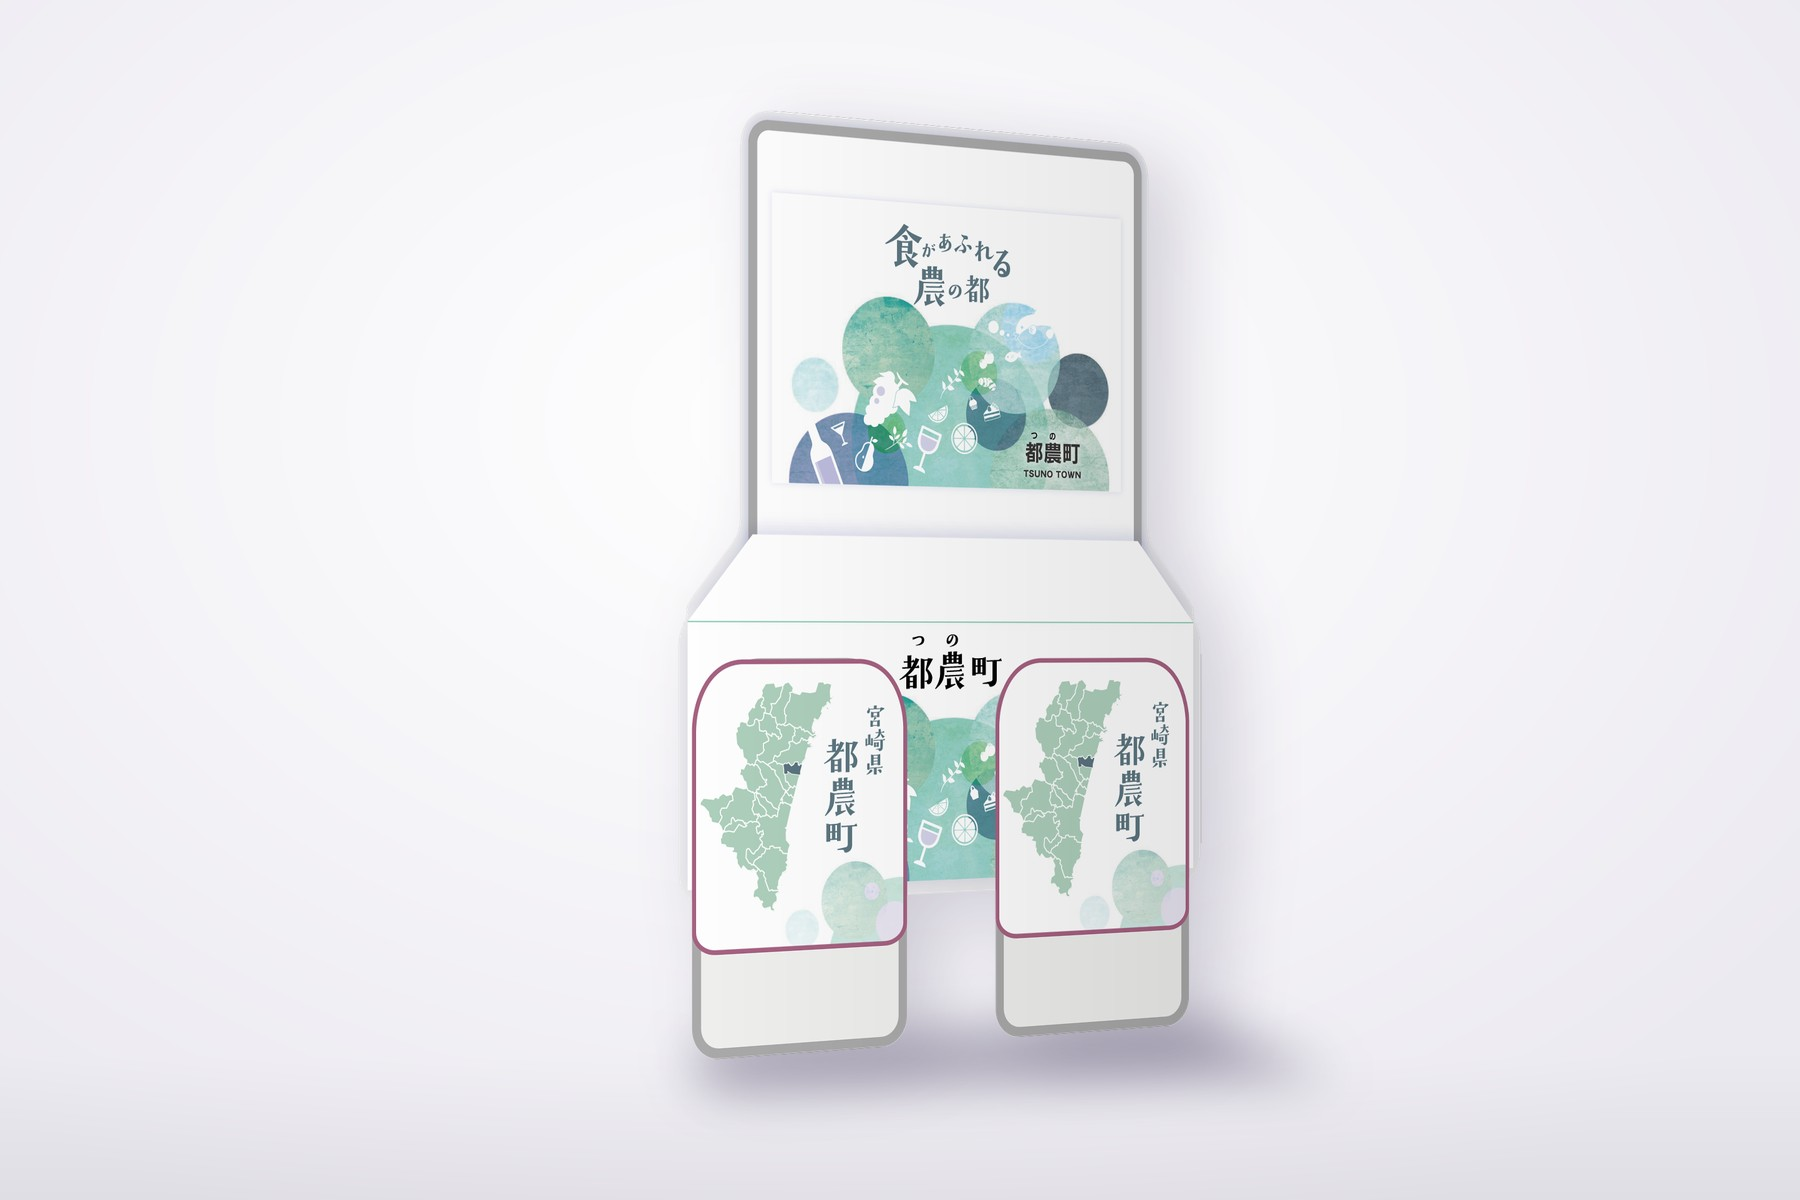
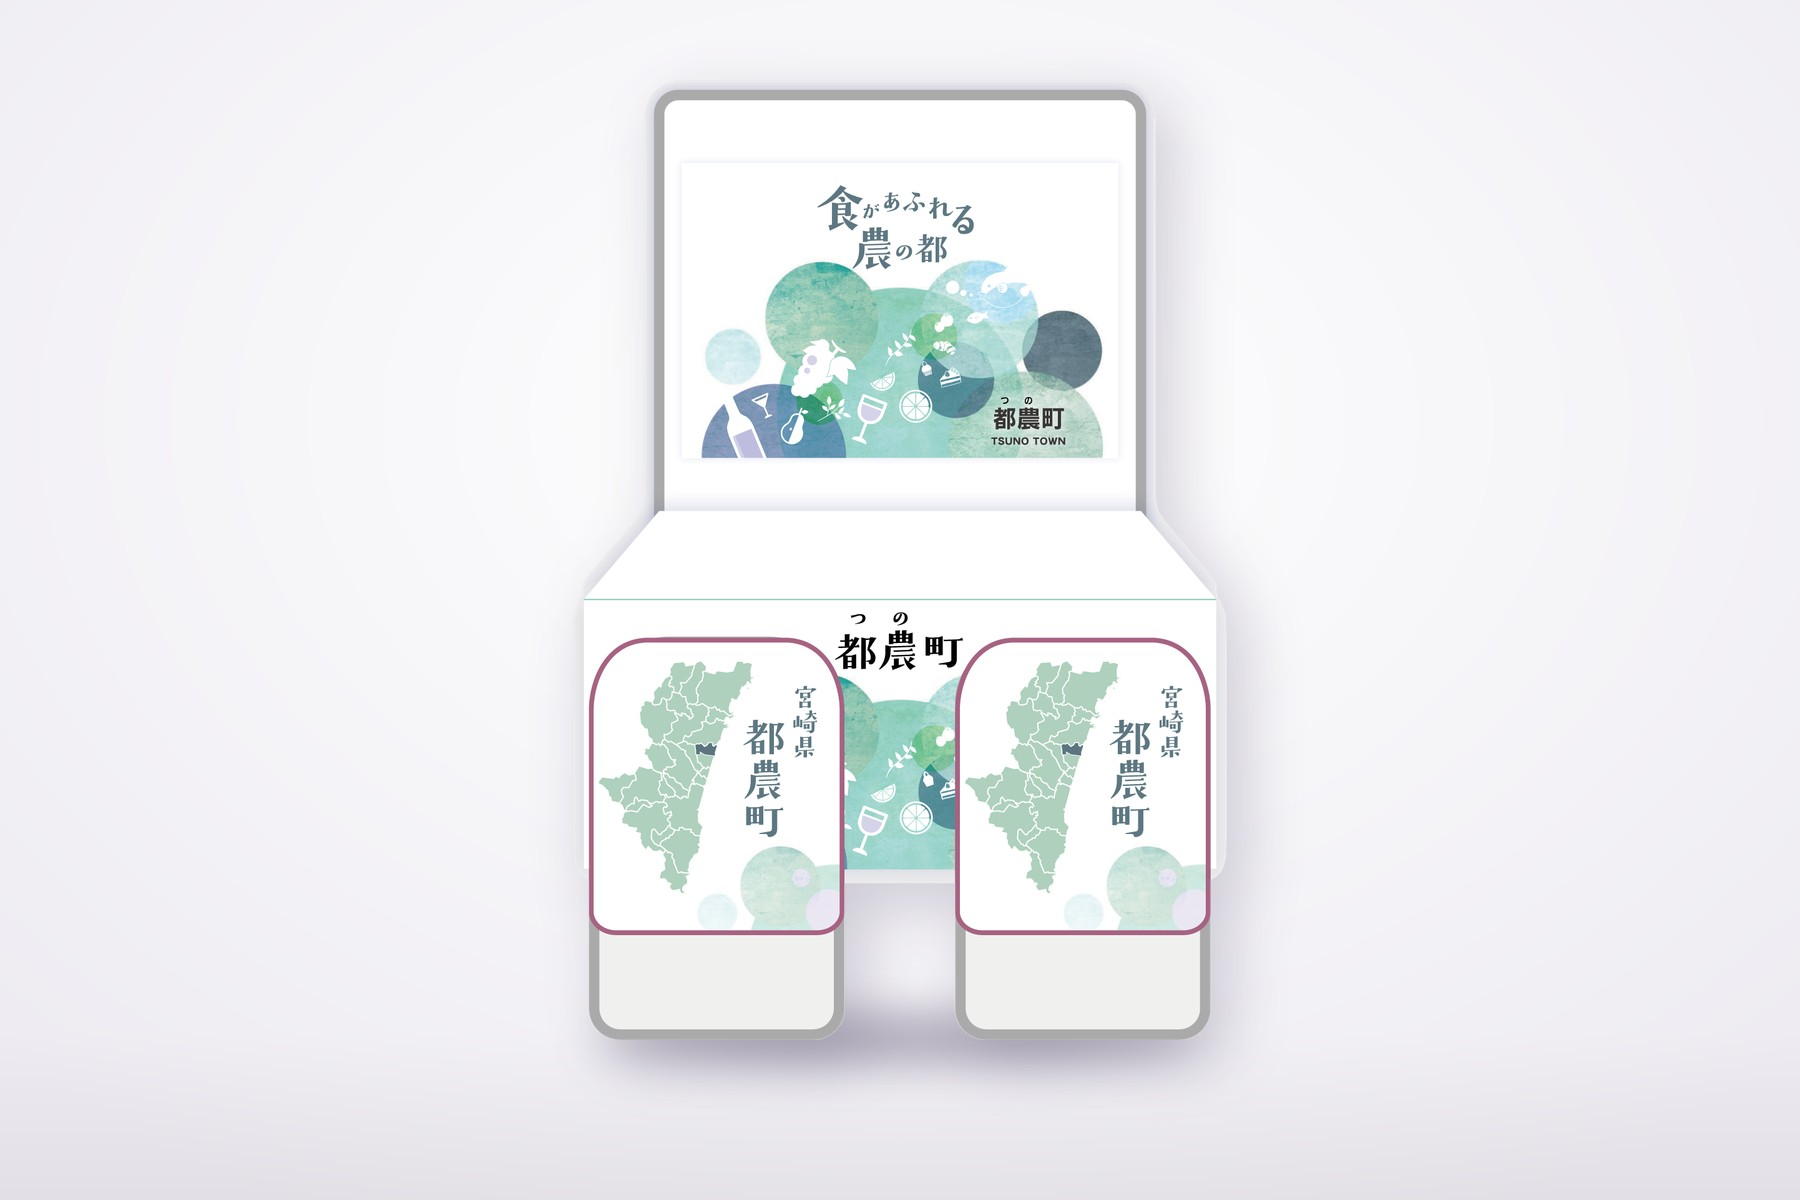
Detail pages: center tall images, remove large cuts; booth design 3 front view; flyers renamed; memo pad added
Claude-Session: https://claude.ai/code/session_01Jjns76fGtdYVDy7ATvCzK4

Changed region(s): [[0.3111, 0.0617, 0.7156, 0.925]]

diff --git a/work-03.html b/work-03.html
@@ -55,7 +55,7 @@
       <header class="sec-head detail-head">
         <p class="sec-head__label" data-reveal><a class="back" href="index.html#work-03">← Back</a>(PROJECT No.03) <span>2026</span></p>
         <h1 class="sec-head__title" data-reveal>Print<br>&amp; Booth</h1>
-        <p class="sec-head__count" data-reveal><b>07</b><span>ITEMS /<br>No.03</span></p>
+        <p class="sec-head__count" data-reveal><b>08</b><span>ITEMS /<br>No.03</span></p>
         <p class="sec-head__v" aria-hidden="true">さくひん</p>
       </header>
 
@@ -64,13 +64,14 @@
         <div class="detail-toc-wrap" data-reveal>
           <p class="detail-toc-label">(CONTENTS)</p>
           <ul class="detail-toc">
-            <li><a href="#piece-1"><span>01</span>Poster 01</a></li>
-            <li><a href="#piece-2"><span>02</span>Poster 02</a></li>
-            <li><a href="#piece-3"><span>03</span>Poster 03</a></li>
-            <li><a href="#piece-4"><span>04</span>Poster 04</a></li>
+            <li><a href="#piece-1"><span>01</span>Flyer 01</a></li>
+            <li><a href="#piece-2"><span>02</span>Poster 01</a></li>
+            <li><a href="#piece-3"><span>03</span>Flyer 02</a></li>
+            <li><a href="#piece-4"><span>04</span>Poster 02</a></li>
             <li><a href="#piece-5"><span>05</span>Pamphlet</a></li>
             <li><a href="#piece-6"><span>06</span>Booth Design</a></li>
             <li><a href="#piece-7"><span>07</span>Logo</a></li>
+            <li><a href="#piece-8"><span>08</span>Memo Pad</a></li>
           </ul>
         </div>
       </div>
@@ -80,41 +81,41 @@
         <article class="site" id="piece-1">
           <figure class="piece__fig site__fig" data-reveal>
             <div class="detail__frame site__frame" data-label="IMAGE 01">
-              <img class="site__shot" src="images/works/detail/03-print-1-kamenoi.jpg" alt="ポスター「亀の井ホテル 玄界灘」" loading="lazy" data-detail-img>
+              <img class="site__shot" src="images/works/detail/03-print-1-kamenoi.jpg" alt="チラシ「亀の井ホテル 玄界灘」" loading="lazy" data-detail-img>
             </div>
-            <figcaption class="detail__cap">(01) Poster 01</figcaption>
+            <figcaption class="detail__cap">(01) Flyer 01</figcaption>
           </figure>
-          <h2 class="piece__title visually-hidden">Poster 01</h2>
-          <p class="piece__jp visually-hidden">ポスター「亀の井ホテル 玄界灘」</p>
+          <h2 class="piece__title visually-hidden">Flyer 01</h2>
+          <p class="piece__jp visually-hidden">チラシ「亀の井ホテル 玄界灘」</p>
         </article>
         <article class="site" id="piece-2">
           <figure class="piece__fig site__fig" data-reveal>
             <div class="detail__frame site__frame" data-label="IMAGE 02">
               <img class="site__shot" src="images/works/detail/03-print-2-school.jpg" alt="ポスター「宮崎で、ミライが動き出す。」" loading="lazy" data-detail-img>
             </div>
-            <figcaption class="detail__cap">(02) Poster 02</figcaption>
+            <figcaption class="detail__cap">(02) Poster 01</figcaption>
           </figure>
-          <h2 class="piece__title visually-hidden">Poster 02</h2>
+          <h2 class="piece__title visually-hidden">Poster 01</h2>
           <p class="piece__jp visually-hidden">ポスター「宮崎で、ミライが動き出す。」</p>
         </article>
         <article class="site" id="piece-3">
           <figure class="piece__fig site__fig" data-reveal>
             <div class="detail__frame site__frame" data-label="IMAGE 03">
-              <img class="site__shot" src="images/works/detail/03-print-3-photocon.jpg" alt="ポスター「フォトコン 一ツ葉」" loading="lazy" data-detail-img>
+              <img class="site__shot" src="images/works/detail/03-print-3-photocon.jpg" alt="チラシ「フォトコン 一ツ葉」" loading="lazy" data-detail-img>
             </div>
-            <figcaption class="detail__cap">(03) Poster 03</figcaption>
+            <figcaption class="detail__cap">(03) Flyer 02</figcaption>
           </figure>
-          <h2 class="piece__title visually-hidden">Poster 03</h2>
-          <p class="piece__jp visually-hidden">ポスター「フォトコン 一ツ葉」</p>
+          <h2 class="piece__title visually-hidden">Flyer 02</h2>
+          <p class="piece__jp visually-hidden">チラシ「フォトコン 一ツ葉」</p>
         </article>
         <article class="site" id="piece-4">
           <figure class="piece__fig site__fig" data-reveal>
             <div class="detail__frame site__frame" data-label="IMAGE 04">
               <img class="site__shot" src="images/works/detail/03-print-4-torujunrei.jpg" alt="ポスター「撮る巡礼」" loading="lazy" data-detail-img>
             </div>
-            <figcaption class="detail__cap">(04) Poster 04</figcaption>
+            <figcaption class="detail__cap">(04) Poster 02</figcaption>
           </figure>
-          <h2 class="piece__title visually-hidden">Poster 04</h2>
+          <h2 class="piece__title visually-hidden">Poster 02</h2>
           <p class="piece__jp visually-hidden">ポスター「撮る巡礼」</p>
         </article>
         <article class="site" id="piece-5">
@@ -147,16 +148,18 @@
           <h2 class="piece__title visually-hidden">Logo</h2>
           <p class="piece__jp visually-hidden">会社の周年ロゴ(2種類)</p>
         </article>
+        <article class="site" id="piece-8">
+          <figure class="piece__fig site__fig" data-reveal>
+            <div class="detail__frame site__frame site__frame--full" data-label="IMAGE 08">
+              <img class="site__shot" src="images/works/detail/03-print-8-memo.jpg" alt="メモ帳デザイン" loading="lazy" data-detail-img>
+            </div>
+            <figcaption class="detail__cap">(08) Memo Pad</figcaption>
+          </figure>
+          <h2 class="piece__title visually-hidden">Memo Pad</h2>
+          <p class="piece__jp visually-hidden">メモ帳デザイン</p>
+        </article>
       </div>
 
-      <!-- 大きく見せるカット -->
-      <div class="mocks">
-        <figure class="piece__fig mock" data-reveal>
-          <div class="detail__frame mock__frame" data-label="PRINTS">
-            <img class="mock__media" src="images/works/detail/03-print-booth-1-print.jpg" alt="印刷物のまとめ" loading="lazy" data-detail-img>
-          </div>
-        </figure>
-      </div>
 
       <!-- ほかの作品へ -->
       <nav class="detail-pager" aria-label="ほかの作品" data-reveal>

diff --git a/work-05.html b/work-05.html
@@ -118,19 +118,6 @@
         </article>
       </div>
 
-      <!-- 大きく見せるカット(同じ大きさで縦に並べる)。押すと、上の一覧の同じ作品が大きく表示される -->
-      <div class="mocks">
-        <figure class="piece__fig mock" data-reveal>
-          <div class="detail__frame mock__frame" data-alias="piece-3" data-label="IMAGE 03">
-            <img class="mock__media" src="images/works/detail/05-3d-objects-3-glass.jpg" alt="光の反射の実験 ガラスオブジェクト" loading="lazy" data-detail-img>
-          </div>
-        </figure>
-        <figure class="piece__fig mock" data-reveal>
-          <div class="detail__frame mock__frame" data-alias="piece-4" data-label="IMAGE 04">
-            <video class="mock__media" src="videos/05-3d-objects-4-jelly.mp4" poster="images/works/detail/05-3d-objects-4-jelly-poster.jpg" autoplay muted loop playsinline preload="metadata" aria-label="ゼリー(アニメーション)"></video>
-          </div>
-        </figure>
-      </div>
 
       <!-- ほかの作品へ -->
       <nav class="detail-pager" aria-label="ほかの作品" data-reveal>

diff --git a/work-08.html b/work-08.html
@@ -97,19 +97,6 @@
         </article>
       </div>
 
-      <!-- 大きく見せるカット(同じ大きさで縦に並べる)。押すと、上の一覧の同じ作品が大きく表示される -->
-      <div class="mocks">
-        <figure class="piece__fig mock" data-reveal>
-          <div class="detail__frame mock__frame" data-alias="piece-3" data-label="IMAGE 03">
-            <img class="mock__media" src="images/works/detail/08-illustration-3-space.jpg" alt="イラスト" loading="lazy" data-detail-img>
-          </div>
-        </figure>
-        <figure class="piece__fig mock" data-reveal>
-          <div class="detail__frame mock__frame" data-alias="piece-4" data-label="IMAGE 04">
-            <img class="mock__media" src="images/works/detail/08-illustration-4-garland.jpg" alt="イラスト" loading="lazy" data-detail-img>
-          </div>
-        </figure>
-      </div>
 
       <!-- ほかの作品へ -->
       <nav class="detail-pager" aria-label="ほかの作品" data-reveal>

diff --git a/work-09.html b/work-09.html
@@ -149,19 +149,6 @@
         </article>
       </div>
 
-      <!-- 大きく見せるカット(同じ大きさで縦に並べる)。押すと、上の一覧の同じ作品が大きく表示される -->
-      <div class="mocks">
-        <figure class="piece__fig mock" data-reveal>
-          <div class="detail__frame mock__frame" data-label="BANNERS">
-            <img class="mock__media" src="images/works/detail/02-banner-web-2-banner.jpg" alt="バナーのまとめ" loading="lazy" data-detail-img>
-          </div>
-        </figure>
-        <figure class="piece__fig mock" data-reveal>
-          <div class="detail__frame mock__frame" data-alias="piece-6" data-label="IMAGE 06">
-            <img class="mock__media" src="images/works/detail/09-illust-wide.jpg" alt="動画用イラスト(全5枚)" loading="lazy" data-detail-img>
-          </div>
-        </figure>
-      </div>
 
       <!-- ほかの作品へ -->
       <nav class="detail-pager" aria-label="ほかの作品" data-reveal>

diff --git a/css/work-detail.css b/css/work-detail.css
@@ -429,3 +429,8 @@ html.lightbox-open, html.lightbox-open body { overflow: hidden; }
 /* 画像そのものが白い背景ごとデザインされているとき(動画用イラストのまとめなど):枠いっぱいに表示 */
 .site__frame--full .site__shot,
 .site__frame--full:hover .site__shot { position: absolute; inset: 0; width: 100%; height: 100%; max-width: none; max-height: none; object-fit: cover; box-shadow: none; transform: none; }
+
+/* 画像を枠の中央に、上下左右とも必ず収める(縦長のイラスト・ポスターが下で切れないように) */
+.site__frame .site__shot,
+.site__frame video.site__shot { position: absolute; inset: 0; margin: auto; width: auto; height: auto; max-width: 64%; max-height: 74%; }
+.site__frame--full .site__shot, .site__frame--full:hover .site__shot { inset: 0; margin: 0; width: 100%; height: 100%; max-width: none; max-height: none; }
